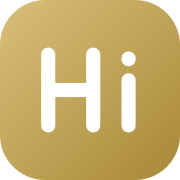
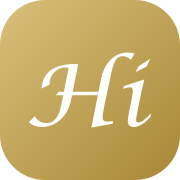
feat(brand): ロゴをLucida Calligraphyの筆記体Hiに変更＋アイコン全再生成

Changed region(s): [[0.1667, 0.25, 0.8333, 0.75]]

diff --git a/src/components/Header.tsx b/src/components/Header.tsx
@@ -53,12 +53,7 @@ export default function Header() {
                 </linearGradient>
               </defs>
               <rect width="28" height="28" rx="7" fill="url(#brand-grad-header)" />
-              <path
-                d="M7.5 8.5v11M14.5 8.5v11M7.5 14h7M20 12.5v7M20 9.1v0.1"
-                stroke="#fff"
-                strokeWidth="2.2"
-                strokeLinecap="round"
-              />
+              <g transform="translate(3.978 19.591) scale(0.1335)"><path d="M43.848-35.840L35.352-35.840L38.672-39.746L44.629-39.746L50.195-67.773Q47.705-68.164 46.729-68.164Q38.916-68.164 33.423-62.500Q27.930-56.836 27.930-48.828L27.930-48.145L18.457-43.506Q20.703-72.266 58.691-72.266L61.328-72.266L54.883-39.746L85.010-39.746L87.891-54.346Q90.723-68.750 99.097-77.148Q107.471-85.547 118.896-85.547Q123.389-85.547 126.904-84.326L122.705-77.051Q117.676-81.348 113.574-81.348Q108.398-81.348 105.298-77.002Q102.197-72.656 100-62.207L92.188-25.684Q89.697-13.916 89.697-10.107Q89.697-5.078 95.166-5.078Q97.559-5.078 102.002-5.615L101.367-2.539L76.709 1.807L84.229-35.840L54.102-35.840L52.930-30.029Q50.146-16.211 40.723-7.495Q31.299 1.221 19.092 1.221Q10.059 1.221 3.906-4.346L10.742-11.377Q15.430-3.320 24.414-3.320Q37.354-3.320 41.504-24.121L43.848-35.840M146.191-14.795L145.313-10.254Q134.619 1.221 126.123 1.221Q119.092 1.221 119.092-6.152Q119.092-8.643 120.215-14.355L123.584-31.348Q124.951-38.574 124.951-40.967Q124.951-45.068 121.777-45.068Q119.580-45.068 113.916-43.359L114.502-46.387L138.379-54.199L134.668-38.574L129.883-14.453Q128.760-8.789 128.760-7.227Q128.760-4.053 131.641-4.053Q136.475-4.053 146.191-14.795M141.113-69.336L128.271-62.695L131.543-69.336L145.313-78.320" fill="#fff"/></g>
             </svg>
             <span className="text-base font-bold text-ink-800 tracking-tight whitespace-nowrap">
               HARMONIC <span className="text-[#c5a55a] font-normal">insight</span>
